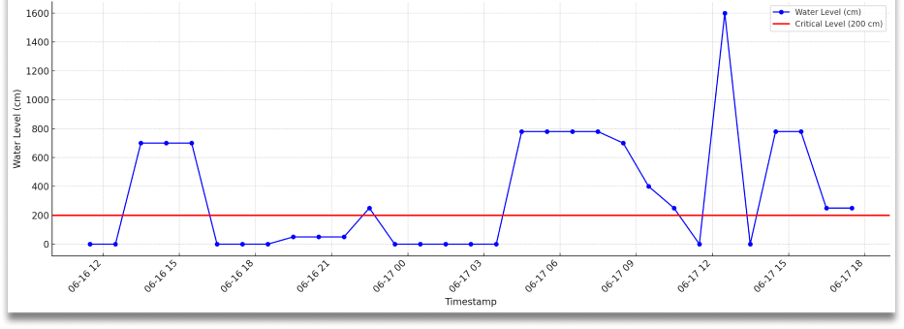
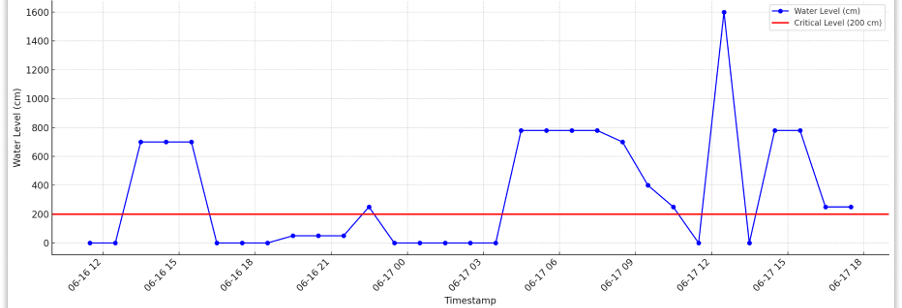
update values for gauge needles + fix plot drop shadow

diff --git a/frontend/src/dashboard2.tsx b/frontend/src/dashboard2.tsx
@@ -206,8 +206,8 @@ export default function Dashboard2() {
           {/* Left Column - Gauges */}
           <div className="col-span-2 grid grid-cols-2 gap-6">
             <CircularGauge title="Methane Value" value="215.6" unit="ppm" min={0} max={250} current={215.6} color="#3b82f6" />
-            <CircularGauge title="Pitch Angle" value="0.4" min={0} max={1.0} current={0.4} color="#10b981" />
-            <CircularGauge title="Roll Angle" value="0.4" min={0} max={1.0} current={0.4} color="#f59e0b" />
+            <CircularGauge title="Pitch Angle" value="0" min={0} max={1.0} current={0} color="#10b981" />
+            <CircularGauge title="Roll Angle" value="0" min={0} max={1.0} current={0} color="#f59e0b" />
             <CircularGauge title="Water Level" value="780" unit="mm" min={0} max={1000} current={780} color="#8b5cf6" />
           </div>
           
